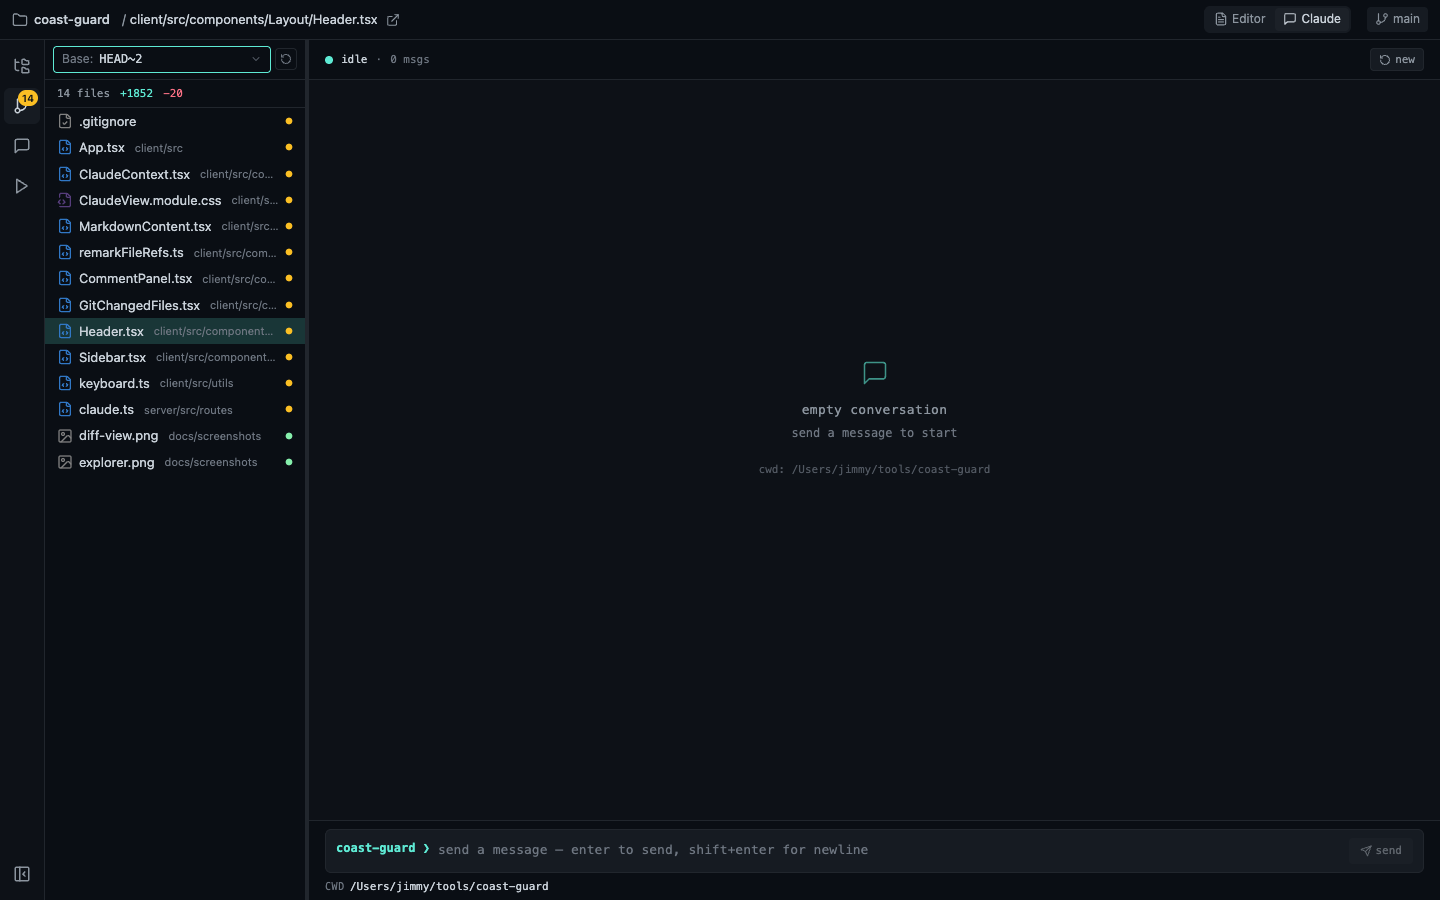
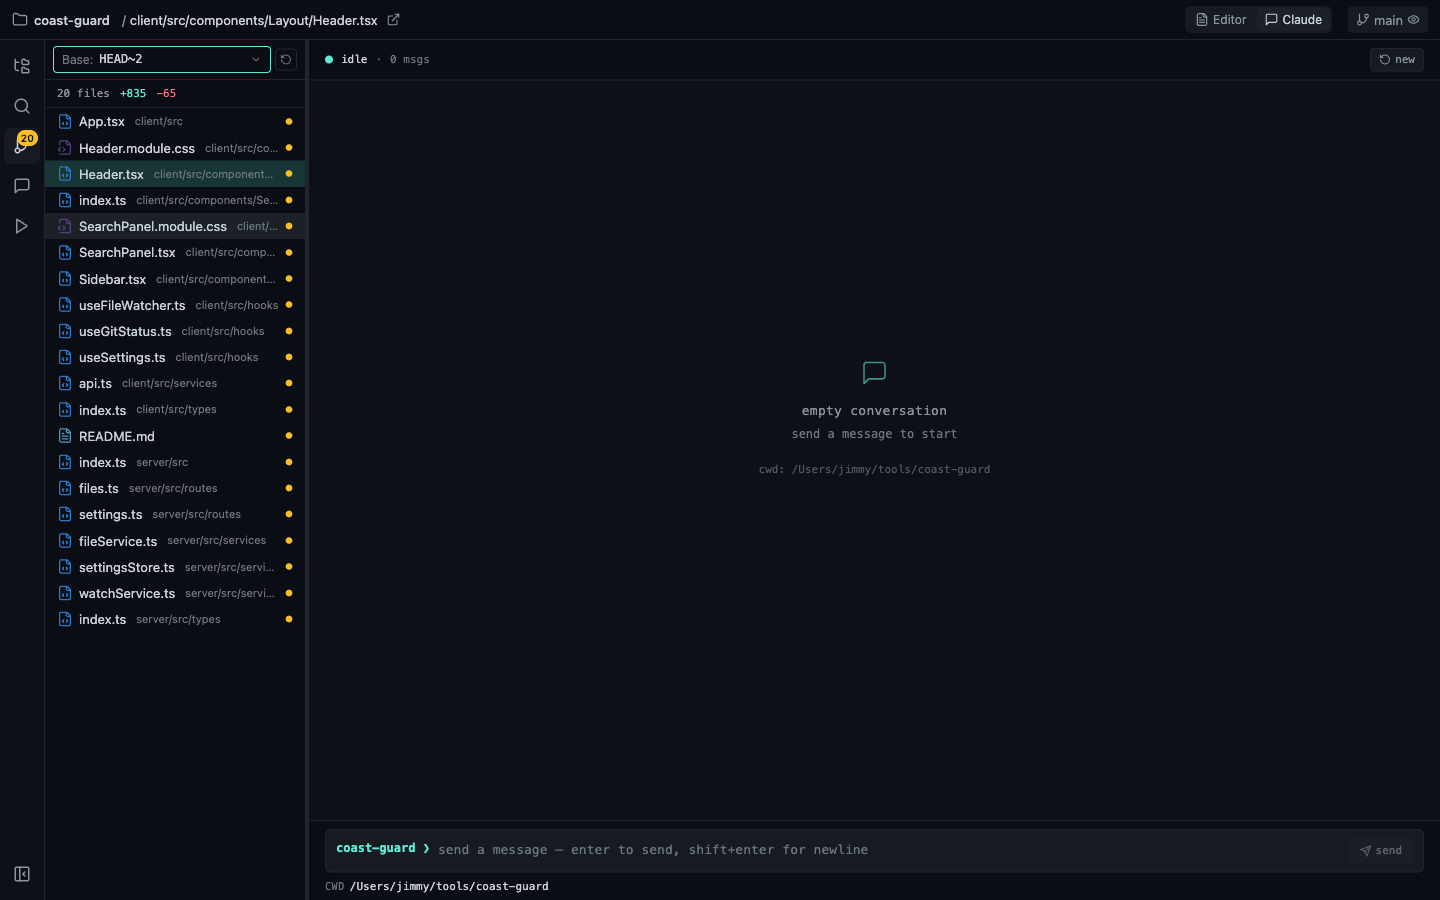
docs(readme): document search/blame/watch features, refresh screenshots, correct paused billing note

diff --git a/README.md b/README.md
@@ -1,6 +1,6 @@
 # 🏖 Coast Guard
 
-A lightweight, browser-based code viewer for reading code and reviewing local git changes. Point it at any project directory and it serves a fast, keyboard-driven UI with a file explorer, syntax highlighting, git diff visualization, markdown rendering, inline review comments, an npm script runner, and an optional embedded Claude chat.
+A lightweight, browser-based code viewer for reading code and reviewing local git changes. Point it at any project directory and it serves a fast, keyboard-driven UI with a file explorer, full-text search, syntax highlighting, git diff visualization, git blame, markdown rendering, inline review comments, an npm script runner, and an optional embedded Claude chat.
 
 It runs entirely on your machine — a small Express server reads your local filesystem and git repo, and a React single-page app renders it in the browser.
 
@@ -8,23 +8,29 @@ It runs entirely on your machine — a small Express server reads your local fil
 
 ## Features
 
-- **File explorer** — browse the project tree; open any file with syntax highlighting (powered by [Shiki](https://shiki.style/), GitHub Dark theme, 20+ languages).
+- **File explorer** — browse the project tree (including dot-prefixed files and directories); open any file with syntax highlighting (powered by [Shiki](https://shiki.style/), GitHub Dark theme, 20+ languages).
+- **Full-text search** — find a string or regex across every file in the project (`Cmd/Ctrl+Shift+F`), with case-sensitivity and regex toggles; results are grouped by file and click through to the matching line. Hidden/dot files are included; `.gitignore`d files are not.
 - **Source control view** — see modified, staged, and untracked files grouped by status, with aggregate diff stats.
 - **Git diff visualization** — inline additions/deletions rendered in the code viewer, with whitespace-ignoring toggle and hunk-to-hunk navigation.
+- **Git blame** — a toggleable blame column (`b`) with sticky hunk labels, commit tooltips on hover, drag-to-resize, and links to the commit on GitHub.
 - **Diff base picker** — diff the working tree against `HEAD`, a branch's merge base, another branch, or any custom ref (e.g. `HEAD~3`, `origin/main`).
-- **Markdown rendering** — GitHub-flavored markdown with a rendered/raw toggle; checkboxes are clickable and write back to the file.
+- **Markdown rendering** — GitHub-flavored markdown with a rendered/raw toggle; checkboxes are clickable and write back to the file, and rendered code blocks have a copy button.
 - **Review comments** — drag across line numbers to select a range and attach inline comments; copy them all out or hand them to the embedded Claude chat.
 - **Go to definition** — `Cmd/Ctrl`-click a TypeScript symbol to jump to its definition (with a picker when there are multiple).
 - **Command palette** — fuzzy file search with smart ranking (`Cmd/Ctrl+K`).
 - **Scripts panel** — run the `npm` scripts defined in the project's `package.json` from the UI, with live streaming output, stop control, and pinning.
-- **Live file watching** — the UI updates over a WebSocket as files change on disk.
-- **Embedded Claude chat** — an optional in-browser chat backed by the local `claude` CLI. **Please read the [usage & billing note](#-embedded-claude-chat--usage--billing) before relying on it.**
+- **Live file watching** — the UI updates over a WebSocket as files change on disk; git polling can be toggled on/off from the branch chip in the header.
+- **Embedded Claude chat** — an optional in-browser chat backed by the local `claude` CLI (see the [usage & billing note](#-embedded-claude-chat--usage--billing)).
 
 ## Screenshots
 
 | Git diff visualization | Embedded Claude chat |
 | --- | --- |
 | ![Diff view](docs/screenshots/diff-view.png) | ![Claude chat](docs/screenshots/claude-chat.png) |
+
+| Full-text search | Git blame |
+| --- | --- |
+| ![Full-text search](docs/screenshots/search.png) | ![Git blame](docs/screenshots/blame.png) |
 
 ## Requirements
 
@@ -83,40 +89,25 @@ npm run dev
 | Shortcut | Action |
 | --- | --- |
 | `Cmd/Ctrl + K` | Open the command palette (fuzzy file search) |
+| `Cmd/Ctrl + Shift + F` | Open the search tab and focus the query input |
 | `Cmd/Ctrl + J` | Toggle between the Editor and Claude views |
-| `Ctrl + 1` / `2` / `3` / `4` | Switch sidebar tab: Explorer / Source Control / Comments / Scripts |
+| `Ctrl + 1` / `2` / `3` / `4` / `5` | Switch sidebar tab: Explorer / Search / Source Control / Comments / Scripts |
 | `Ctrl + 0` | Collapse / expand the sidebar |
+| `b` | Toggle the git blame column (in the open file) |
 | `z` / `x` | Previous / next changed file (in the Source Control view) |
 | `n` / `m` | Previous / next diff hunk (in the open file) |
 | `Cmd/Ctrl + Click` | Go to definition (TypeScript) |
 
-The single-character shortcuts (`z`, `x`, `n`, `m`) only fire in the Editor view and are suppressed while you're typing in an input or text area.
+The single-character shortcuts (`b`, `z`, `x`, `n`, `m`) only fire in the Editor view and are suppressed while you're typing in an input or text area.
 
 ## 🤖 Embedded Claude chat — usage & billing
 
-> [!IMPORTANT]
-> **As of June 15, 2026, Anthropic changed how Claude subscription plans are billed for programmatic use, and it directly affects this feature.**
-
-The embedded chat works by shelling out to the local `claude` CLI in headless mode (`claude -p …`). Under [Anthropic's updated policy](https://support.claude.com/en/articles/15036540-use-the-claude-agent-sdk-with-your-claude-plan), **Claude Agent SDK and `claude -p` usage no longer counts toward your normal Claude plan usage limits.** Instead it draws from a **separate monthly credit allowance**:
-
-| Plan | Monthly Agent SDK / `claude -p` credit |
-| --- | --- |
-| Pro | $20 |
-| Max 5× | $100 |
-| Max 20× | $200 |
-| Team (Standard / Premium) | $20 / $100 |
-| Enterprise | $20 (usage-based) / $200 (seat-based Premium) |
-
-What this means in practice:
-
-- This credit is **separate** from — and much smaller than — the interactive usage you get with Claude Code in your terminal. Heavy use of the embedded chat can exhaust it quickly.
-- **Once the monthly credit runs out:** if you have **usage credits enabled**, further requests bill to those credits at **standard API rates** (this is the "restrictive/expensive" case — it's real per-token money). If you **don't** have usage credits enabled, the chat simply stops working until the credit refreshes the next month.
-- Credits **don't roll over** and **can't be shared** across teammates.
-
-Because of this, treat the embedded Claude chat as a convenience that may be limited or costly. If you don't need it, you can ignore it — the rest of Coast Guard works without the `claude` CLI installed.
+The embedded chat works by shelling out to the local `claude` CLI in headless mode (`claude -p …`), so it draws from whatever your CLI is signed in with — for subscription plans (Pro/Max/Team/Enterprise) it counts toward the **same usage limits as running Claude Code in your terminal**, and for API-key auth it bills at normal API rates.
 
 > [!NOTE]
-> This feature may be removed in a future version. The rest of the tool (file viewing, diffs, comments, scripts) does not depend on it.
+> In May 2026 Anthropic announced that Agent SDK / `claude -p` usage would move off subscription plans onto a separate, much smaller monthly credit allowance. That change was [paused on June 15, 2026 before it took effect](https://support.claude.com/en/articles/15036540-use-the-claude-agent-sdk-with-your-claude-plan) — headless usage still draws from your normal plan limits, and Anthropic says it will give advance notice before any future change. If billing behavior matters to you, check that article for the current policy.
+
+If you don't need the chat, you can ignore it — the rest of Coast Guard works without the `claude` CLI installed.
 
 ### Security note
 
